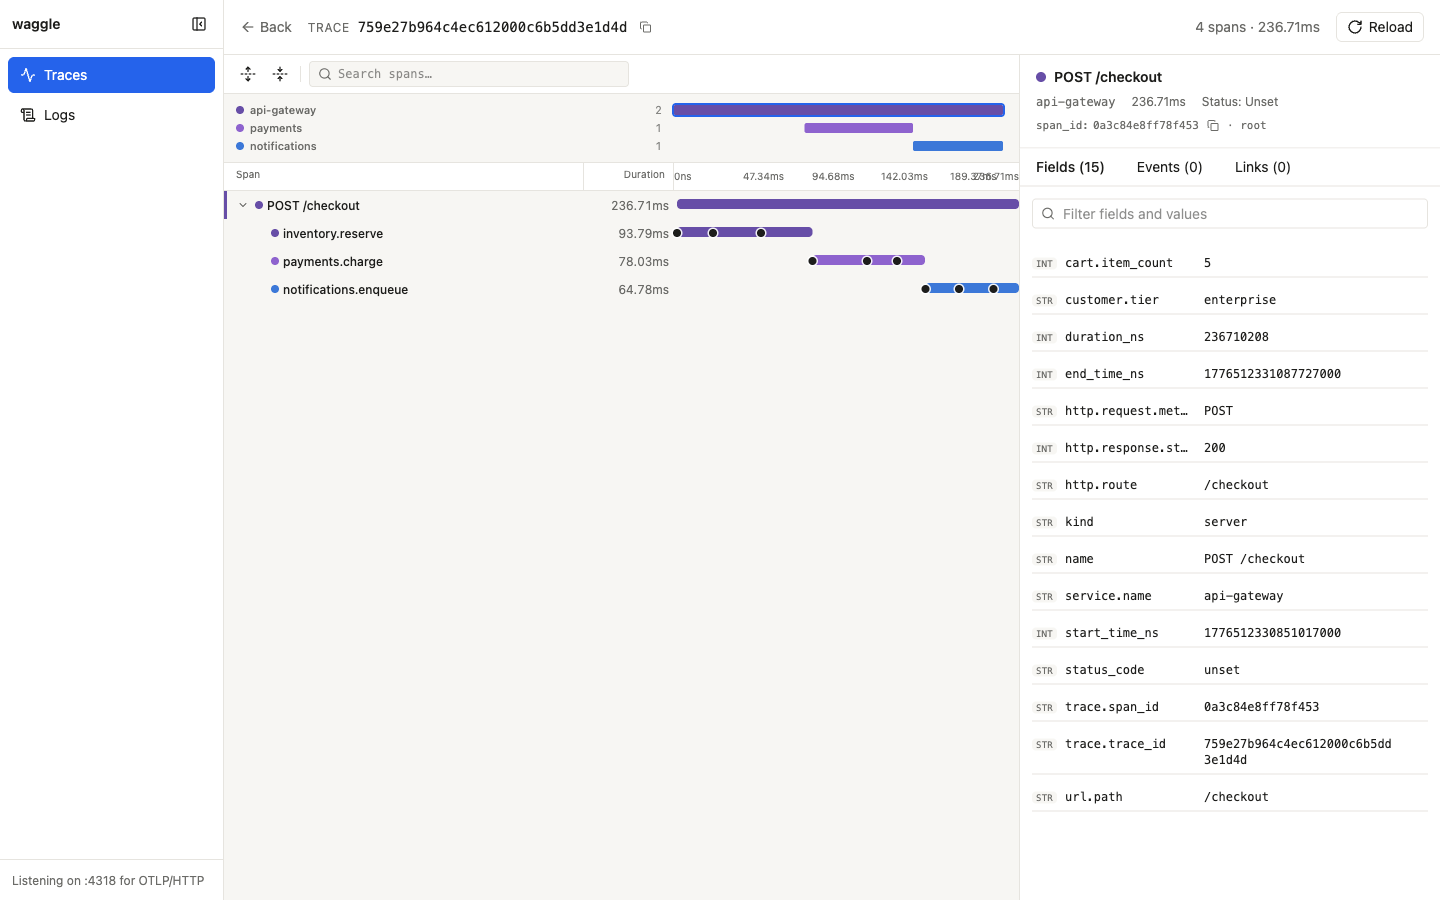
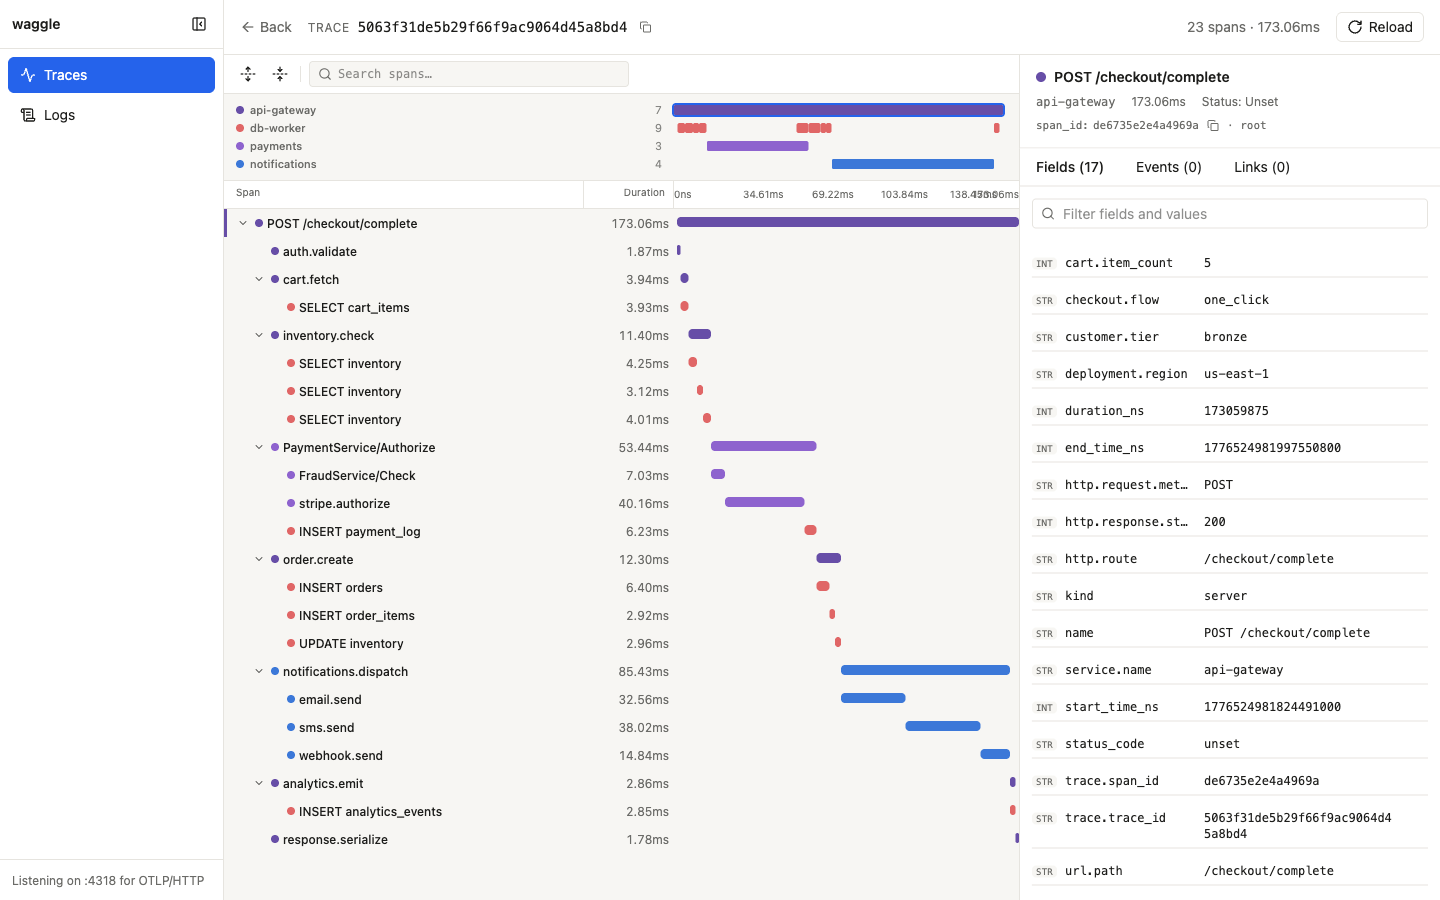
feat(loadgen): add big-checkout template (~23 spans)
New template emitBigCheckoutFlow produces a deep, fan-out trace
spanning all four services (api-gateway, db-worker, payments,
notifications) and going three levels deep — ~23 spans per
POST /checkout/complete. Useful as the canonical demo trace for
the waterfall view and for exercising span-list virtualisation.

Also refresh docs/trace-waterfall.png with the new template so
the README screenshot shows the deeper structure instead of a
four-span example.

diff --git a/cmd/loadgen/templates.go b/cmd/loadgen/templates.go
@@ -91,6 +91,11 @@ var allTemplates = []TraceTemplate{
 		Description: "Retrying HTTP client with exponential backoff events",
 		Emit:        emitRetryingRequest,
 	},
+	{
+		Service:     "api-gateway",
+		Description: "Big checkout flow — ~23 spans across all four services (demo)",
+		Emit:        emitBigCheckoutFlow,
+	},
 }
 
 // -----------------------------------------------------------------------------
@@ -583,6 +588,198 @@ func emitNotificationSend(ctx context.Context, tracers Tracers) error {
 	)
 	sleepLike(30*time.Millisecond, 10*time.Millisecond)
 	call.End()
+	return nil
+}
+
+// emitBigCheckoutFlow produces a deep, fan-out trace that spans every
+// service and goes 3 levels deep. ~23 spans per trace — useful as the
+// demo trace for the waterfall view and for testing pagination / scroll
+// in span lists. Call structure (indent = depth):
+//
+//	POST /checkout/complete        [api-gateway]
+//	  auth.validate                [api-gateway]
+//	  cart.fetch                   [api-gateway]
+//	    db.SELECT cart             [db-worker]
+//	  inventory.check              [api-gateway]
+//	    db.SELECT inventory (×3)   [db-worker]
+//	  payments.authorize           [payments]
+//	    fraud.score                [payments]
+//	    stripe.charge              [payments]
+//	    db.INSERT payment_log      [db-worker]
+//	  order.create                 [api-gateway]
+//	    db.INSERT orders           [db-worker]
+//	    db.INSERT order_items      [db-worker]
+//	    db.UPDATE inventory        [db-worker]
+//	  notifications.dispatch       [notifications]
+//	    email.send                 [notifications]
+//	    sms.send                   [notifications]
+//	    webhook.send               [notifications]
+//	  analytics.emit               [api-gateway]
+//	    db.INSERT analytics        [db-worker]
+//	  response.serialize           [api-gateway]
+func emitBigCheckoutFlow(ctx context.Context, tracers Tracers) error {
+	api := tracers["api-gateway"]
+	pay := tracers["payments"]
+	notif := tracers["notifications"]
+	db := tracers["db-worker"]
+
+	ctx, root := api.Start(ctx, "POST /checkout/complete",
+		trace.WithSpanKind(trace.SpanKindServer))
+	root.SetAttributes(
+		attribute.String("http.request.method", "POST"),
+		attribute.String("http.route", "/checkout/complete"),
+		attribute.String("url.path", "/checkout/complete"),
+		attribute.Int("http.response.status_code", 200),
+		attribute.String("customer.tier", pickTier()),
+		attribute.String("deployment.region", pickRegion()),
+		attribute.Int("cart.item_count", 3+rand.IntN(8)),
+		attribute.String("checkout.flow", "one_click"),
+	)
+	defer root.End()
+
+	// simpleChild starts a sibling under ctx, sets a few attributes, and
+	// sleeps a short realistic duration before ending. Keeps the body below
+	// readable.
+	simpleChild := func(parentCtx context.Context, t trace.Tracer, name string, attrs []attribute.KeyValue, base, jitter time.Duration) {
+		_, s := t.Start(parentCtx, name, trace.WithSpanKind(trace.SpanKindInternal))
+		if len(attrs) > 0 {
+			s.SetAttributes(attrs...)
+		}
+		sleepLike(base, jitter)
+		s.End()
+	}
+
+	// auth.validate — flat child.
+	simpleChild(ctx, api, "auth.validate",
+		[]attribute.KeyValue{
+			attribute.String("auth.method", "jwt"),
+			attribute.Bool("auth.cached", rand.IntN(2) == 0),
+		},
+		3*time.Millisecond, 2*time.Millisecond)
+
+	// cart.fetch — one DB child under it.
+	cartCtx, cart := api.Start(ctx, "cart.fetch")
+	cart.SetAttributes(attribute.String("cart.id", fmt.Sprintf("cart_%d", rand.IntN(100_000))))
+	simpleChild(cartCtx, db, "SELECT cart_items",
+		[]attribute.KeyValue{
+			attribute.String("db.system", "postgresql"),
+			attribute.String("db.statement", "SELECT * FROM cart_items WHERE cart_id = $1"),
+			attribute.Int("db.rows_returned", 3+rand.IntN(5)),
+		},
+		4*time.Millisecond, 2*time.Millisecond)
+	cart.End()
+
+	// inventory.check — fan-out of 3 parallel-looking DB lookups.
+	invCtx, inv := api.Start(ctx, "inventory.check")
+	inv.SetAttributes(attribute.Int("inventory.line_count", 3))
+	for i := range 3 {
+		simpleChild(invCtx, db, "SELECT inventory",
+			[]attribute.KeyValue{
+				attribute.String("db.system", "postgresql"),
+				attribute.String("db.statement", "SELECT qty FROM inventory WHERE sku = $1 FOR UPDATE"),
+				attribute.Int("inventory.line.index", i),
+				attribute.Int("db.rows_returned", 1),
+			},
+			3*time.Millisecond, 1*time.Millisecond)
+	}
+	inv.End()
+
+	// payments.authorize — crosses into the payments service, then into db.
+	payCtx, payAuth := pay.Start(ctx, "PaymentService/Authorize",
+		trace.WithSpanKind(trace.SpanKindServer))
+	payAuth.SetAttributes(
+		attribute.String("rpc.system", "grpc"),
+		attribute.String("rpc.service", "PaymentService"),
+		attribute.String("rpc.method", "Authorize"),
+		attribute.String("payments.provider", pickPaymentProvider()),
+	)
+	simpleChild(payCtx, pay, "FraudService/Check",
+		[]attribute.KeyValue{
+			attribute.String("rpc.service", "FraudService"),
+			attribute.Float64("fraud.score", rand.Float64()),
+		},
+		6*time.Millisecond, 3*time.Millisecond)
+	simpleChild(payCtx, pay, "stripe.authorize",
+		[]attribute.KeyValue{
+			attribute.String("peer.service", "stripe"),
+			attribute.String("http.request.method", "POST"),
+			attribute.String("http.route", "/v1/charges"),
+			attribute.Int("http.response.status_code", 200),
+		},
+		35*time.Millisecond, 15*time.Millisecond)
+	simpleChild(payCtx, db, "INSERT payment_log",
+		[]attribute.KeyValue{
+			attribute.String("db.system", "postgresql"),
+			attribute.String("db.statement", "INSERT INTO payment_log(...) VALUES(...)"),
+		},
+		4*time.Millisecond, 2*time.Millisecond)
+	payAuth.End()
+
+	// order.create — three DB writes under a single order-create span.
+	orderCtx, order := api.Start(ctx, "order.create")
+	order.SetAttributes(attribute.String("order.id", fmt.Sprintf("o_%d", rand.IntN(1_000_000))))
+	simpleChild(orderCtx, db, "INSERT orders",
+		[]attribute.KeyValue{
+			attribute.String("db.system", "postgresql"),
+			attribute.String("db.statement", "INSERT INTO orders(...) VALUES(...)"),
+		},
+		4*time.Millisecond, 2*time.Millisecond)
+	simpleChild(orderCtx, db, "INSERT order_items",
+		[]attribute.KeyValue{
+			attribute.String("db.system", "postgresql"),
+			attribute.String("db.statement", "INSERT INTO order_items(...) VALUES(...)"),
+		},
+		5*time.Millisecond, 3*time.Millisecond)
+	simpleChild(orderCtx, db, "UPDATE inventory",
+		[]attribute.KeyValue{
+			attribute.String("db.system", "postgresql"),
+			attribute.String("db.statement", "UPDATE inventory SET qty = qty - $1 WHERE sku = $2"),
+		},
+		4*time.Millisecond, 2*time.Millisecond)
+	order.End()
+
+	// notifications.dispatch — fan out to three channels.
+	notifCtx, dispatch := notif.Start(ctx, "notifications.dispatch",
+		trace.WithSpanKind(trace.SpanKindProducer))
+	dispatch.SetAttributes(attribute.Int("notifications.channels", 3))
+	simpleChild(notifCtx, notif, "email.send",
+		[]attribute.KeyValue{
+			attribute.String("messaging.system", "sendgrid"),
+			attribute.String("messaging.operation", "send"),
+		},
+		25*time.Millisecond, 10*time.Millisecond)
+	simpleChild(notifCtx, notif, "sms.send",
+		[]attribute.KeyValue{
+			attribute.String("messaging.system", "twilio"),
+			attribute.String("messaging.operation", "send"),
+		},
+		35*time.Millisecond, 10*time.Millisecond)
+	simpleChild(notifCtx, notif, "webhook.send",
+		[]attribute.KeyValue{
+			attribute.String("peer.service", "partner-webhook"),
+			attribute.Int("http.response.status_code", 202),
+		},
+		20*time.Millisecond, 8*time.Millisecond)
+	dispatch.End()
+
+	// analytics.emit — one more db hop.
+	anCtx, analytics := api.Start(ctx, "analytics.emit")
+	analytics.SetAttributes(attribute.String("analytics.event", "checkout_completed"))
+	simpleChild(anCtx, db, "INSERT analytics_events",
+		[]attribute.KeyValue{
+			attribute.String("db.system", "postgresql"),
+			attribute.String("db.statement", "INSERT INTO analytics_events(...) VALUES(...)"),
+		},
+		3*time.Millisecond, 1*time.Millisecond)
+	analytics.End()
+
+	// response.serialize — flat child, ends the request.
+	simpleChild(ctx, api, "response.serialize",
+		[]attribute.KeyValue{
+			attribute.Int("response.body_size_bytes", 800+rand.IntN(2000)),
+		},
+		2*time.Millisecond, 1*time.Millisecond)
+
 	return nil
 }
 
